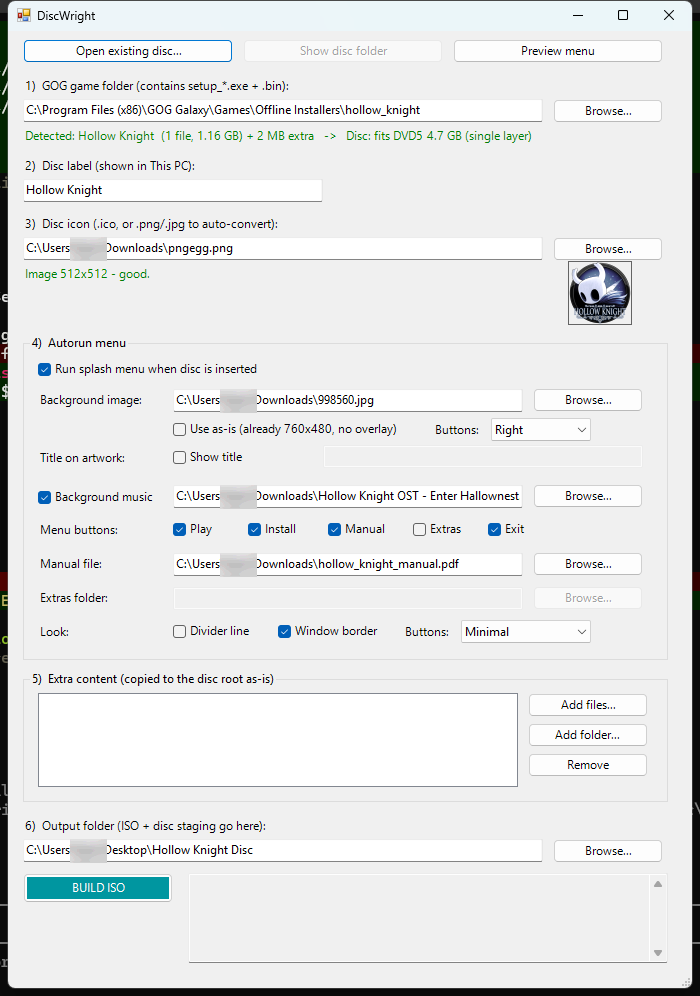
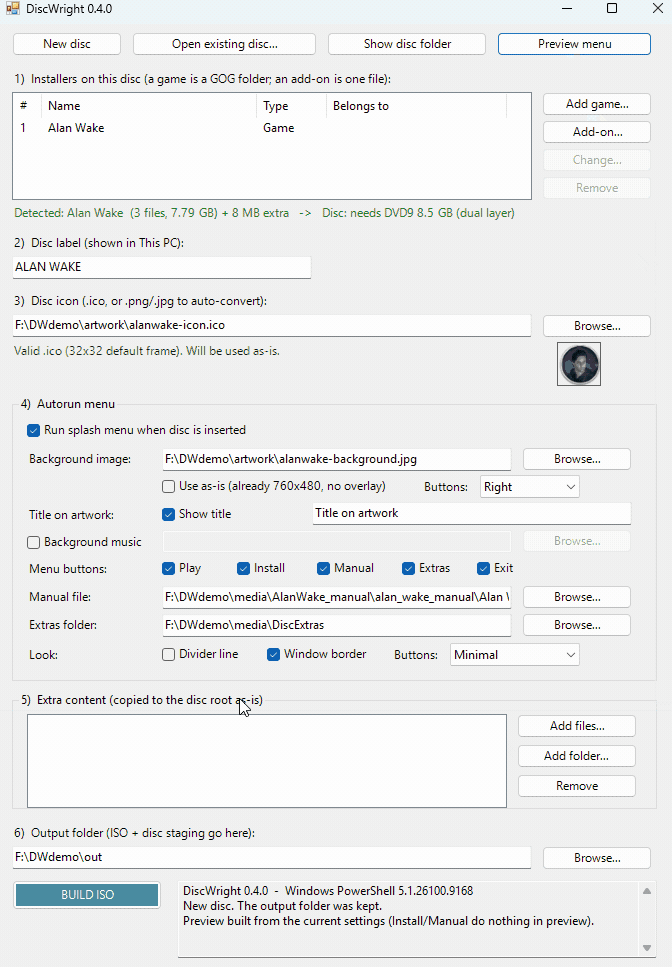
docs: re-record the demo GIFs against 0.4.0 (#20)
The build GIF was made against 0.1.0 and showed a UI that no longer exists: a
single "GOG game folder" box instead of the installer list, three buttons in the
top row, no New disc. It now runs the whole thing on 0.4.0 - add the game, label,
icon, background, manual, extras, preview the menu, then a real 7.79 GB build
through to "Build complete in 02:14".

Adds a second GIF for the part 0.3.0 introduced and nothing showed: two games and
two Hollow Knight patches on one disc, the menu opening on a chooser, a game's own
screen carrying its patches as extra Install buttons, and Back. It also picks an
mp3 for the background music, since "what format is the music" turns out to be a
question people have.

The README text around them is deliberately thin. The chooser, Back and where
add-ons appear are already described under Why, and one-track-per-disc under Known
limitations - so the new section says only what those do not: the patch buttons
stay greyed until the game is installed.

screenshot.png was the 0.1.0 window too, unreferenced by anything, and had the
author's username painted over with grey rectangles. Replaced with a frame from
the new build GIF: current UI, and no redaction needed because every path in it is
under F:\DWdemo. Kept rather than deleted in case the 0.1.0 launch thread links it.

Recorded 206s and 250s, cut to 35s and 44s. Both had the author's account name
visible where a picker opened on the Desktop - removed by cutting rather than
[…]

diff --git a/README.md b/README.md
@@ -54,7 +54,7 @@ The launchers run the script with `-ExecutionPolicy Bypass`, the flag Windows re
 
 ## Making a disc
 
-![The whole build in one pass: add the game, add artwork and extras, hit BUILD ISO, preview the menu](docs/demo.gif)
+![The whole build in one pass: add the game, set the label, icon and background, attach the manual and extras, preview the menu, then BUILD ISO through to the finished file](docs/demo.gif)
 
 1. **Add the games** — each one a GOG folder holding `setup_*.exe` and any `.bin` parts. DiscWright reads the game's name out of the installer and tells you which disc size the lot of them needs. Add as many as fit.
 
@@ -72,6 +72,14 @@ The launchers run the script with `-ExecutionPolicy Bypass`, the flag Windows re
 Every build writes a `discproject.json` next to the ISO. **Open existing disc...** loads it back so you can change one thing and rebuild, months later.
 
 **New disc** clears the form and starts over without restarting the app — useful when you are making several discs in one sitting. It asks first, and it keeps the output folder, since that is the one field you would otherwise retype every time.
+
+### More than one game on a disc
+
+![Two games and two patches on one disc: each add-on is filed under the game it belongs to, and the menu opens on a chooser](docs/multi-game.gif)
+
+Two games and two Hollow Knight patches, ending on the menu the disc will show.
+
+The patches sit on Hollow Knight's own screen rather than in the chooser, and they stay **greyed until that game is installed** — applying a patch to nothing produces an error from GOG's installer several clicks later, which is a poor place to learn the rule.
 
 ### Where to get artwork
 
